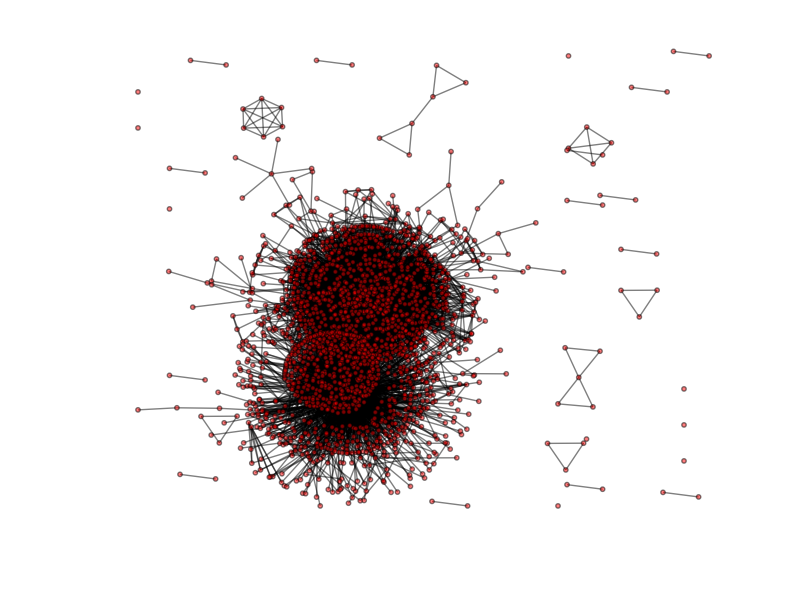
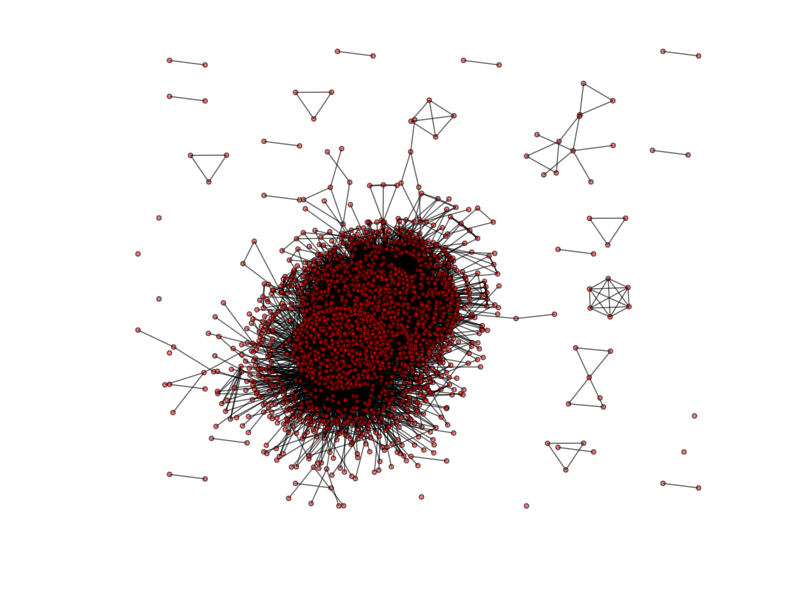
Remove highthroughput papers

diff --git a/get_references.py b/get_references.py
@@ -38,6 +38,7 @@ def pmids_from_gaf(gaf_file):
     pmid_go = {}
     unigoa_file = open(gaf_file)
     pmids = {}
+    pmid_prot = {}
     go_terms = []
     for inrec in GOA.gafiterator(unigoa_file):
         for dbref in inrec['DB:Reference']:
@@ -49,15 +50,20 @@ def pmids_from_gaf(gaf_file):
                     pmid_go[pmid] = [inrec['GO_ID']]
                 else:
                     pmid_go[pmid].append(inrec['GO_ID'])
+                if pmid not in pmid_prot:
+                    pmid_prot[pmid] = [inrec['DB_Object_ID']]
+                elif inrec['DB_Object_ID'] not in pmid_prot[pmid]:
+                    pmid_prot[pmid].append(inrec['DB_Object_ID'])
     # I enforced the list cast here because the dict_key is not subscriptableds))
-    return list(pmids.keys()), pmid_go, go_terms
+    return list(pmids.keys()), pmid_go, go_terms, pmid_prot
 
 
-def remove_high_throughput_papers(pmid_go):
+def remove_high_throughput_papers(pmid_go, pmid_prot):
     
-    for pmid in pmid_go.keys():
-        if (len(pmid_go[pmid]) >= 50):
+    for pmid in pmid_prot.keys():
+        if (len(pmid_prot[pmid]) >= 50):
             del pmid_go[pmid]
+            del pmid_prot[pmid]
 
 def pmid2doi(pmid_list):
     """
@@ -283,11 +289,11 @@ def get_stats(pmid_pmid, pmid_go, go_terms):
     
 if __name__ == "__main__":
     
-    pmids,pmid_go, go_terms = pmids_from_gaf(sys.argv[1])
+    pmids,pmid_go, go_terms, pmid_prot = pmids_from_gaf("gene_association.goa_dicty")
     #pmid_dois = pmid2doi(pmids)  
     #get_references(pmid_dois)
     
-    remove_high_throughput_papers(pmid_go)
+    remove_high_throughput_papers(pmid_go, pmid_prot)
     
     pmid_pmid = cPickle.load(open("/home/jomaao/GitHub/PCPAnnotationAssessment/pmid_pmid"))
     
